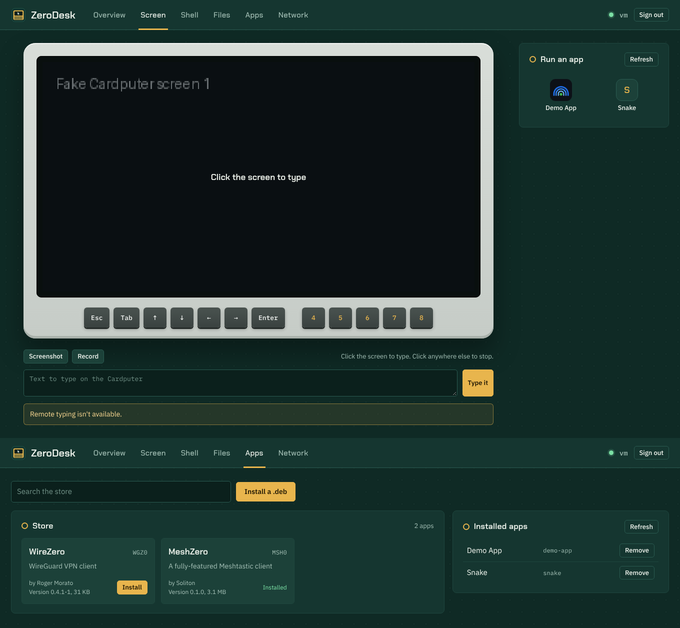
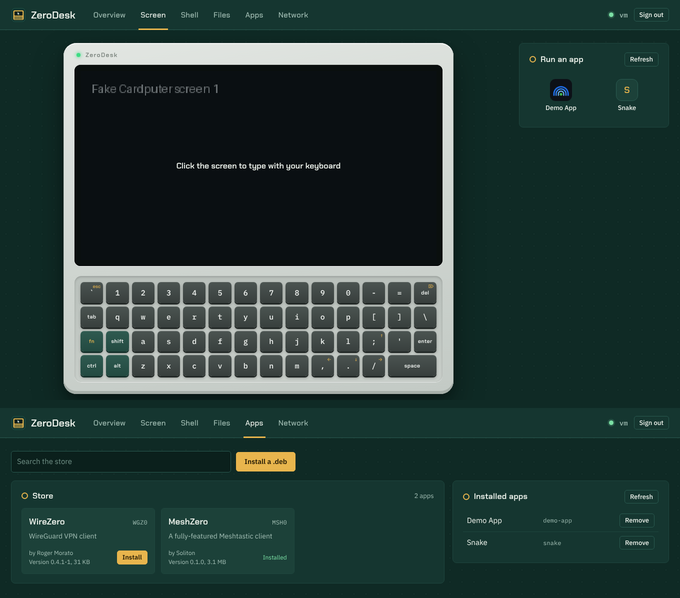
Screen tab: handheld with a full working keyboard

diff --git a/web/app.css b/web/app.css
@@ -153,39 +153,66 @@ main { flex: 1; padding: 26px 22px; min-height: 0; width: 100%; max-width: 1480p
 .screen-layout { display: grid; grid-template-columns: minmax(0, 1fr) 300px; gap: 26px; align-items: start; }
 @media (max-width: 1000px) { .screen-layout { grid-template-columns: 1fr; } }
 .device {
-  width: min(940px, 100%); margin: 0 auto; padding: 26px 26px 22px;
-  background: linear-gradient(#d9ded9, #c6ccc7); border-radius: 24px;
-  box-shadow: inset 0 2px 0 rgba(255, 255, 255, .7), inset 0 -5px 0 #a9b1ab, 0 26px 50px rgba(0, 0, 0, .35);
+  --u: 1fr;
+  width: min(780px, 100%); margin: 0 auto; padding: 16px 22px 24px;
+  background: linear-gradient(170deg, #e2e6e2 0%, #cfd5d0 55%, #c3cac5 100%);
+  border-radius: 26px;
+  box-shadow: inset 0 2px 0 rgba(255, 255, 255, .8), inset 0 -6px 0 #a7afa9, inset 0 0 0 1px #b7beb9,
+              0 30px 60px rgba(0, 0, 0, .38), 0 6px 14px rgba(0, 0, 0, .2);
+  user-select: none; -webkit-user-select: none; touch-action: manipulation;
 }
-.lcd { position: relative; padding: 12px; background: #090f0e; border-radius: 10px; box-shadow: inset 0 0 0 1px #000; }
+.device-top { display: flex; align-items: center; gap: 10px; padding: 0 4px 12px; }
+.led { width: 8px; height: 8px; border-radius: 50%; background: #8d958f; box-shadow: inset 0 1px 1px rgba(0, 0, 0, .3); }
+.led.on { background: #3ddc84; box-shadow: 0 0 6px 1px rgba(61, 220, 132, .7); }
+.dev-name { font: 600 12px var(--display); letter-spacing: .12em; color: #7b847e; }
+.lcd {
+  position: relative; padding: 12px; background: #0a0f0e; border-radius: 12px;
+  box-shadow: inset 0 0 0 1px #000, 0 1px 0 rgba(255, 255, 255, .7), 0 -1px 0 #9fa7a1;
+}
 #screen { display: block; width: 100%; aspect-ratio: 320 / 170; image-rendering: pixelated; background: #000; cursor: text; }
 .overlay {
-  position: absolute; inset: 12px; display: flex; align-items: center; justify-content: center;
-  background: rgba(9, 15, 14, .55); color: var(--silk); font: 600 17px var(--display);
+  position: absolute; inset: 12px; display: flex; align-items: center; justify-content: center; text-align: center;
+  background: rgba(9, 15, 14, .55); color: var(--silk); font: 600 16px var(--display);
   pointer-events: none; opacity: 0; transition: opacity .2s;
 }
 .lcd:not(.focused) .overlay { opacity: 1; }
 .lcd.focused { box-shadow: inset 0 0 0 1px #000, 0 0 0 3px var(--gold); }
 #screen:focus-visible { outline: none; }
-.keys { display: flex; flex-wrap: wrap; justify-content: center; gap: 8px; margin: 20px 0 0; }
-.keys button {
-  min-width: 46px; height: 40px; justify-content: center; font: 500 13px var(--mono);
-  color: #f2f5f2; background: linear-gradient(#4a5350, #3a4240); border: none; border-radius: 6px;
-  box-shadow: 0 3px 0 #252b29, 0 4px 6px rgba(0, 0, 0, .25);
+
+/* keyboard */
+.kb {
+  display: grid; grid-template-columns: repeat(14, minmax(0, 1fr)); gap: 7px 6px;
+  margin-top: 20px; padding: 12px; border-radius: 14px;
+  background: linear-gradient(#b9c0bb, #c8cec9); box-shadow: inset 0 2px 4px rgba(0, 0, 0, .18), 0 1px 0 rgba(255, 255, 255, .6);
 }
-.keys button:hover { background: linear-gradient(#55605c, #444d4a); }
-.keys button:active { transform: translateY(2px); box-shadow: 0 1px 0 #252b29; }
-.keys button.fn { color: var(--gold); }
-.keys .sep { width: 18px; }
+.key {
+  position: relative; aspect-ratio: 1 / .92; min-width: 0; padding: 0; justify-content: center; align-items: center;
+  font: 500 15px var(--mono); color: #f2f5f2; text-transform: none;
+  background: linear-gradient(#4b5451, #383f3d); border: none; border-radius: 7px;
+  box-shadow: 0 3px 0 #222826, 0 4px 5px rgba(0, 0, 0, .28), inset 0 1px 0 rgba(255, 255, 255, .12);
+  touch-action: none;
+}
+.key:hover { background: linear-gradient(#56605c, #424a47); }
+.key.down { transform: translateY(2px); box-shadow: 0 1px 0 #222826, inset 0 1px 0 rgba(255, 255, 255, .08); background: linear-gradient(#3f4745, #343b39); }
+.key.word .main { font: 600 10.5px var(--display); letter-spacing: .04em; }
+.key[style*="span 2"] { aspect-ratio: auto; }
+.key .fn-label { position: absolute; top: 3px; right: 5px; font: 600 9.5px var(--display); color: var(--gold); opacity: .8; }
+.key.mod { background: linear-gradient(#2f5a50, #234a41); box-shadow: 0 3px 0 #15302a, 0 4px 5px rgba(0, 0, 0, .28), inset 0 1px 0 rgba(255, 255, 255, .12); }
+.key.mod[data-code="mod:fn"] .main { color: var(--gold); }
+.key.mod.on { background: var(--gold); box-shadow: 0 1px 0 #9c7520; transform: translateY(2px); }
+.key.mod.on .main { color: var(--gold-ink) !important; }
+.kb.fn-on .key .fn-label { opacity: 1; text-shadow: 0 0 8px rgba(232, 181, 77, .8); }
+.kb.fn-on .key:not(.mod):not(:has(.fn-label)) { opacity: .55; }
 @media (max-width: 620px) {
-  .device { padding: 16px 14px 14px; border-radius: 18px; }
-  .lcd { padding: 7px; } .overlay { inset: 7px; font-size: 15px; }
-  .keys { gap: 6px; margin-top: 14px; }
-  .keys button { min-width: 0; flex: 1 0 13%; height: 36px; padding: 0 4px; }
-  .keys .sep { display: none; }
+  .device { padding: 12px 10px 14px; border-radius: 18px; }
+  .lcd { padding: 6px; } .overlay { inset: 6px; font-size: 13px; }
+  .kb { gap: 4px 3px; padding: 6px; margin-top: 12px; border-radius: 9px; }
+  .key { border-radius: 4px; font-size: 11px; aspect-ratio: 1 / 1.25; }
+  .key.word .main { font-size: 7px; letter-spacing: 0; }
+  .key .fn-label { top: 1px; right: 2px; font-size: 7px; }
   .hint { display: none; }
 }
-.under-device { width: min(940px, 100%); margin: 22px auto 0; }
+.under-device { width: min(780px, 100%); margin: 22px auto 0; }
 .screen-tools { display: flex; align-items: center; gap: 8px; margin-bottom: 12px; }
 #rec.recording { border-color: var(--err); color: var(--err); }
 #rec.recording::before { content: ""; width: 8px; height: 8px; border-radius: 50%; background: var(--err); }

diff --git a/web/app.js b/web/app.js
@@ -256,7 +256,7 @@
       if (!wanted || ws) return;
       ws = new WebSocket(wsUrl("/ws/screen"));
       ws.binaryType = "blob";
-      ws.onopen = () => { retry = 0; };
+      ws.onopen = () => { retry = 0; setLed(true); };
       ws.onmessage = async (ev) => {
         if (typeof ev.data === "string") {
           try { const m = JSON.parse(ev.data); if (m.type === "error") toast(m.message, true); } catch (e) { /* */ }
@@ -270,12 +270,13 @@
         } catch (e) { /* bad frame */ }
       };
       ws.onclose = (ev) => {
-        ws = null;
+        ws = null; setLed(false);
         if (ev.code === 4401 || ev.code === 1008) { location.replace("/login"); return; }
         if (wanted) setTimeout(connect, Math.min(5000, 500 * 2 ** retry++));
       };
     }
     function send(obj) { if (ws && ws.readyState === 1) ws.send(JSON.stringify(obj)); }
+    function setLed(on) { const l = $("dev-led"); l.classList.toggle("on", on); l.title = on ? "Live" : "Not connected"; }
     function key(code, isDown) {
       if (isDown) down.add(code); else down.delete(code);
       send({ type: "key", code, down: isDown });
@@ -292,11 +293,74 @@
       else { key(e.code, false); key(e.code, true); }
     });
     canvas.addEventListener("keyup", (e) => { if (e.metaKey) return; e.preventDefault(); key(e.code, false); });
-    $("soft-keys").addEventListener("click", (e) => {
-      const b = e.target.closest("button[data-key]");
+    // ---- the on-screen keyboard: 14 columns, 4 rows
+    // [code, label, shifted label, fn code, fn label, width]
+    const L = (code, label, shifted, fn, fnLabel, w) => ({ code, label, shifted: shifted || label.toUpperCase(), fn, fnLabel, w: w || 1 });
+    const letters = (str) => str.split("").map(c => L("Key" + c.toUpperCase(), c));
+    const ROWS = [
+      [L("Backquote", "`", "~", "Escape", "esc"), ...Array.from("1234567890").map((d, i) => L("Digit" + d, d, "!@#$%^&*()"[i])),
+       L("Minus", "-", "_"), L("Equal", "=", "+"), L("Backspace", "del", "del", "Delete", "⌦")],
+      [L("Tab", "tab", "tab"), ...letters("qwertyuiop"), L("BracketLeft", "[", "{"), L("BracketRight", "]", "}"), L("Backslash", "\\", "|")],
+      [L("mod:fn", "fn", "fn"), L("mod:ShiftLeft", "shift", "shift"), ...letters("asdfghjkl"),
+       L("Semicolon", ";", ":", "ArrowUp", "↑"), L("Quote", "'", '"'), L("Enter", "enter", "enter")],
+      [L("mod:ControlLeft", "ctrl", "ctrl"), L("mod:AltLeft", "alt", "alt"), ...letters("zxcvbnm"),
+       L("Comma", ",", "<", "ArrowLeft", "←"), L("Period", ".", ">", "ArrowDown", "↓"), L("Slash", "/", "?", "ArrowRight", "→"),
+       L("Space", "space", "space", null, null, 2)],
+    ];
+    const kb = $("kb"), mods = new Set(), keyEls = {};
+    ROWS.forEach(row => row.forEach(k => {
+      const b = el("button", "key" + (k.code.startsWith("mod:") ? " mod" : "") + (k.label.length > 1 ? " word" : ""));
+      b.type = "button"; b.tabIndex = -1;
+      if (k.w > 1) b.style.gridColumn = "span " + k.w;
+      if (k.fnLabel) b.append(el("span", "fn-label", k.fnLabel));
+      const main = el("span", "main", k.label); b.append(main);
+      b.dataset.code = k.code; b._k = k; b._main = main;
+      b.setAttribute("aria-label", k.code.replace(/^mod:|Key|Digit/g, ""));
+      keyEls[k.code] = b; kb.append(b);
+    }));
+    function refreshMods() {
+      kb.classList.toggle("shifted", mods.has("ShiftLeft"));
+      kb.classList.toggle("fn-on", mods.has("fn"));
+      kb.querySelectorAll(".key").forEach(b => {
+        const k = b._k;
+        if (k.code.startsWith("mod:")) b.classList.toggle("on", mods.has(k.code.slice(4)));
+        else b._main.textContent = mods.has("ShiftLeft") ? k.shifted : k.label;
+      });
+    }
+    let held = null;      // { code, mods } for the key being pressed with the mouse or finger
+    kb.addEventListener("pointerdown", (e) => {
+      const b = e.target.closest(".key");
       if (!b) return;
-      key(b.dataset.key, true); setTimeout(() => key(b.dataset.key, false), 60);
+      e.preventDefault();
+      const k = b._k;
+      if (k.code.startsWith("mod:")) {                  // sticky: applies to the next key
+        const m = k.code.slice(4);
+        mods.has(m) ? mods.delete(m) : mods.add(m); refreshMods(); return;
+      }
+      const code = mods.has("fn") && k.fn ? k.fn : k.code;
+      const used = [...mods].filter(m => m !== "fn");
+      used.forEach(m => key(m, true));
+      key(code, true);
+      held = { code, used, b }; b.classList.add("down");
+      try { b.setPointerCapture(e.pointerId); } catch (err) { /* */ }
     });
+    function letGo() {
+      if (!held) return;
+      key(held.code, false); held.used.forEach(m => key(m, false));
+      held.b.classList.remove("down"); held = null;
+      mods.clear(); refreshMods();
+    }
+    kb.addEventListener("pointerup", letGo);
+    kb.addEventListener("pointercancel", letGo);
+    kb.addEventListener("lostpointercapture", letGo);
+    // light up the on-screen key when typing on a real keyboard
+    const lit = (code, on) => {
+      const b = keyEls[code] || keyEls["mod:" + code] || keyEls[{ ShiftRight: "mod:ShiftLeft", ControlRight: "mod:ControlLeft", AltRight: "mod:AltLeft", Escape: "Backquote", Delete: "Backspace", ArrowUp: "Semicolon", ArrowDown: "Period", ArrowLeft: "Comma", ArrowRight: "Slash" }[code]];
+      if (b) b.classList.toggle("down", on);
+    };
+    canvas.addEventListener("keydown", (e) => lit(e.code, true));
+    canvas.addEventListener("keyup", (e) => lit(e.code, false));
+    canvas.addEventListener("blur", () => kb.querySelectorAll(".key.down").forEach(b => b.classList.remove("down")));
 
     // screenshot + recording happen in the browser, from frames it already has
     function bigCanvas() {

diff --git a/web/index.html b/web/index.html
@@ -55,19 +55,16 @@
   <section id="tab-screen" class="tab">
     <div class="screen-layout">
       <div class="screen-col">
-        <div class="device">
+        <div class="device" id="device">
+          <div class="device-top">
+            <span id="dev-led" class="led" title="Not connected"></span>
+            <span class="dev-name">ZeroDesk</span>
+          </div>
           <div class="lcd">
             <canvas id="screen" width="320" height="170" tabindex="0" aria-label="Cardputer screen"></canvas>
-            <div id="screen-overlay" class="overlay">Click the screen to type</div>
+            <div id="screen-overlay" class="overlay">Click the screen to type with your keyboard</div>
           </div>
-          <div class="keys" id="soft-keys">
-            <button data-key="Escape">Esc</button><button data-key="Tab">Tab</button>
-            <button data-key="ArrowUp" aria-label="Up">↑</button><button data-key="ArrowDown" aria-label="Down">↓</button>
-            <button data-key="ArrowLeft" aria-label="Left">←</button><button data-key="ArrowRight" aria-label="Right">→</button>
-            <button data-key="Enter">Enter</button>
-            <span class="sep"></span>
-            <button data-key="Digit4" class="fn">4</button><button data-key="Digit5" class="fn">5</button><button data-key="Digit6" class="fn">6</button><button data-key="Digit7" class="fn">7</button><button data-key="Digit8" class="fn">8</button>
-          </div>
+          <div class="kb" id="kb" role="group" aria-label="Cardputer keyboard"></div>
         </div>
         <div class="under-device">
           <div class="screen-tools">
@@ -75,7 +72,7 @@
             <button id="rec" class="small">Record</button>
             <span id="rec-time" class="muted small"></span>
             <span class="spacer"></span>
-            <span class="muted small hint">Click the screen to type. Click anywhere else to stop.</span>
+            <span class="muted small hint">Gold labels need Fn first. Fn, Shift, Ctrl and Alt apply to the next key.</span>
           </div>
           <form id="paste-form" class="paste">
             <textarea id="paste-text" rows="2" maxlength="4000" placeholder="Text to type on the Cardputer"></textarea>
